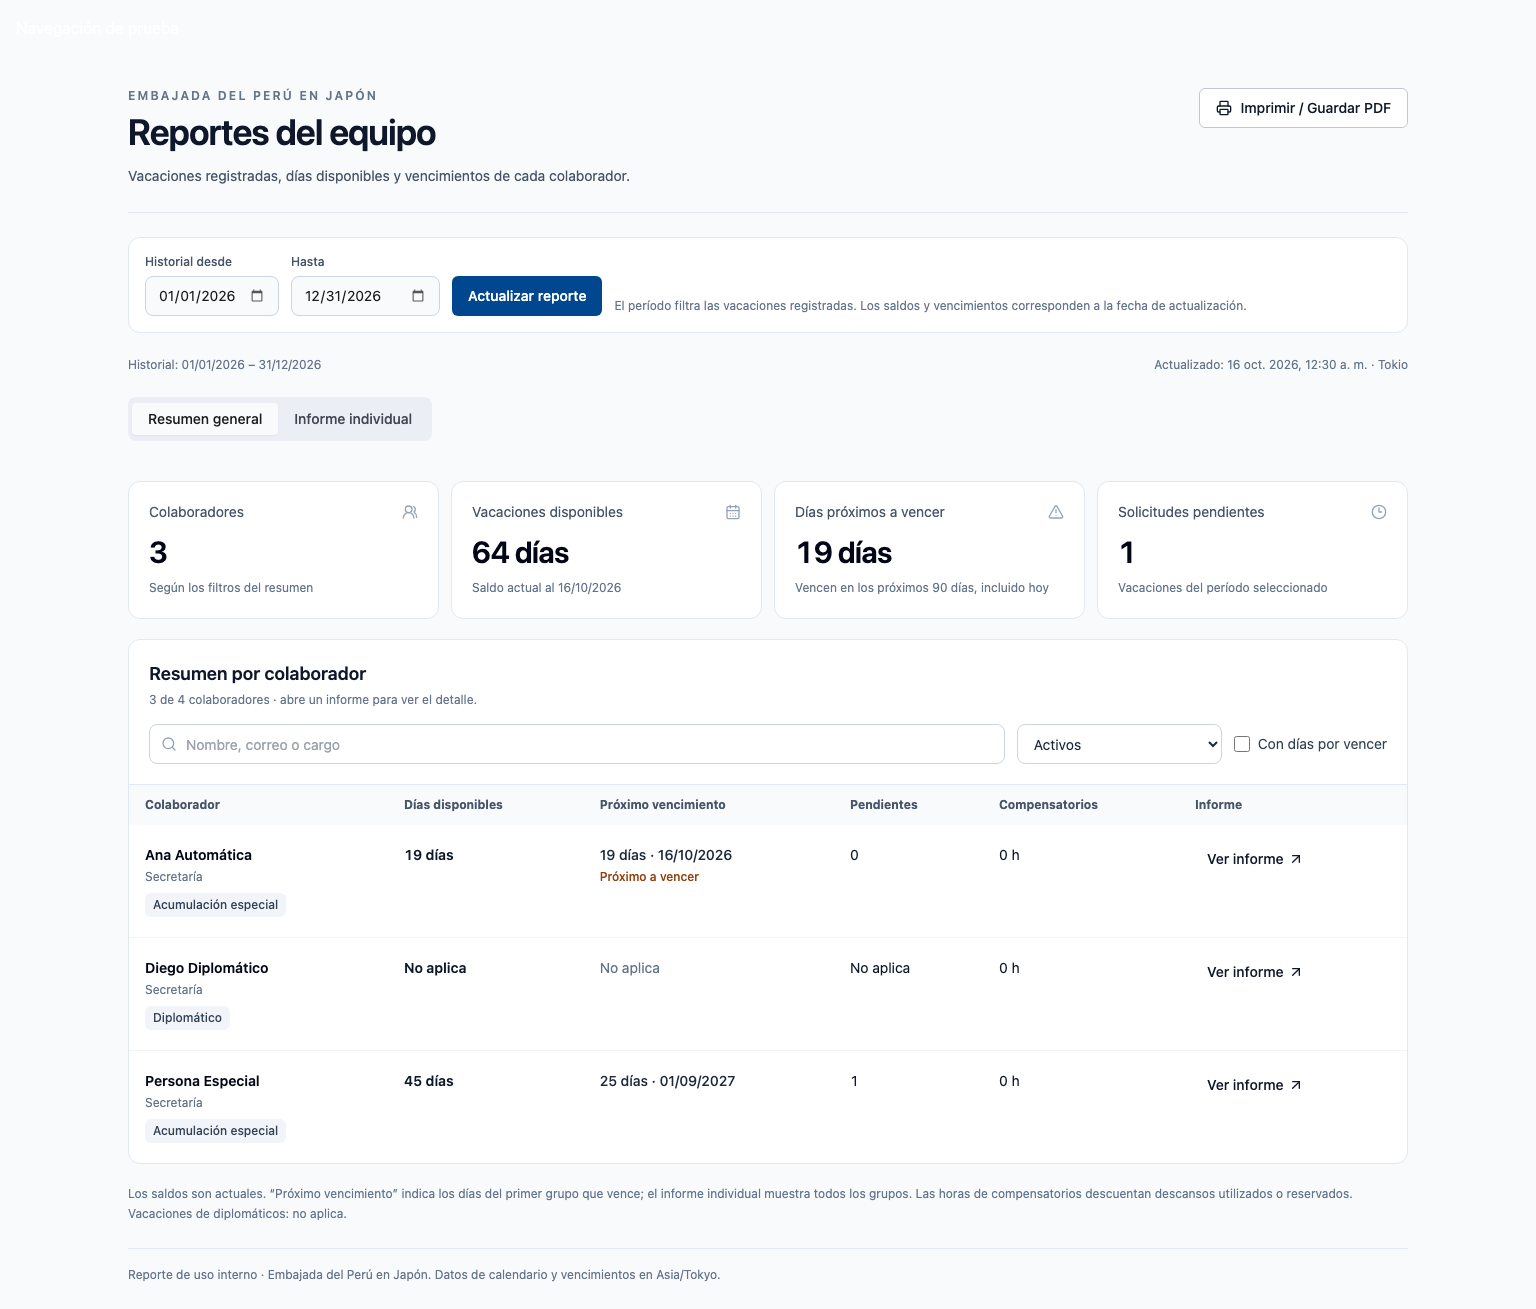
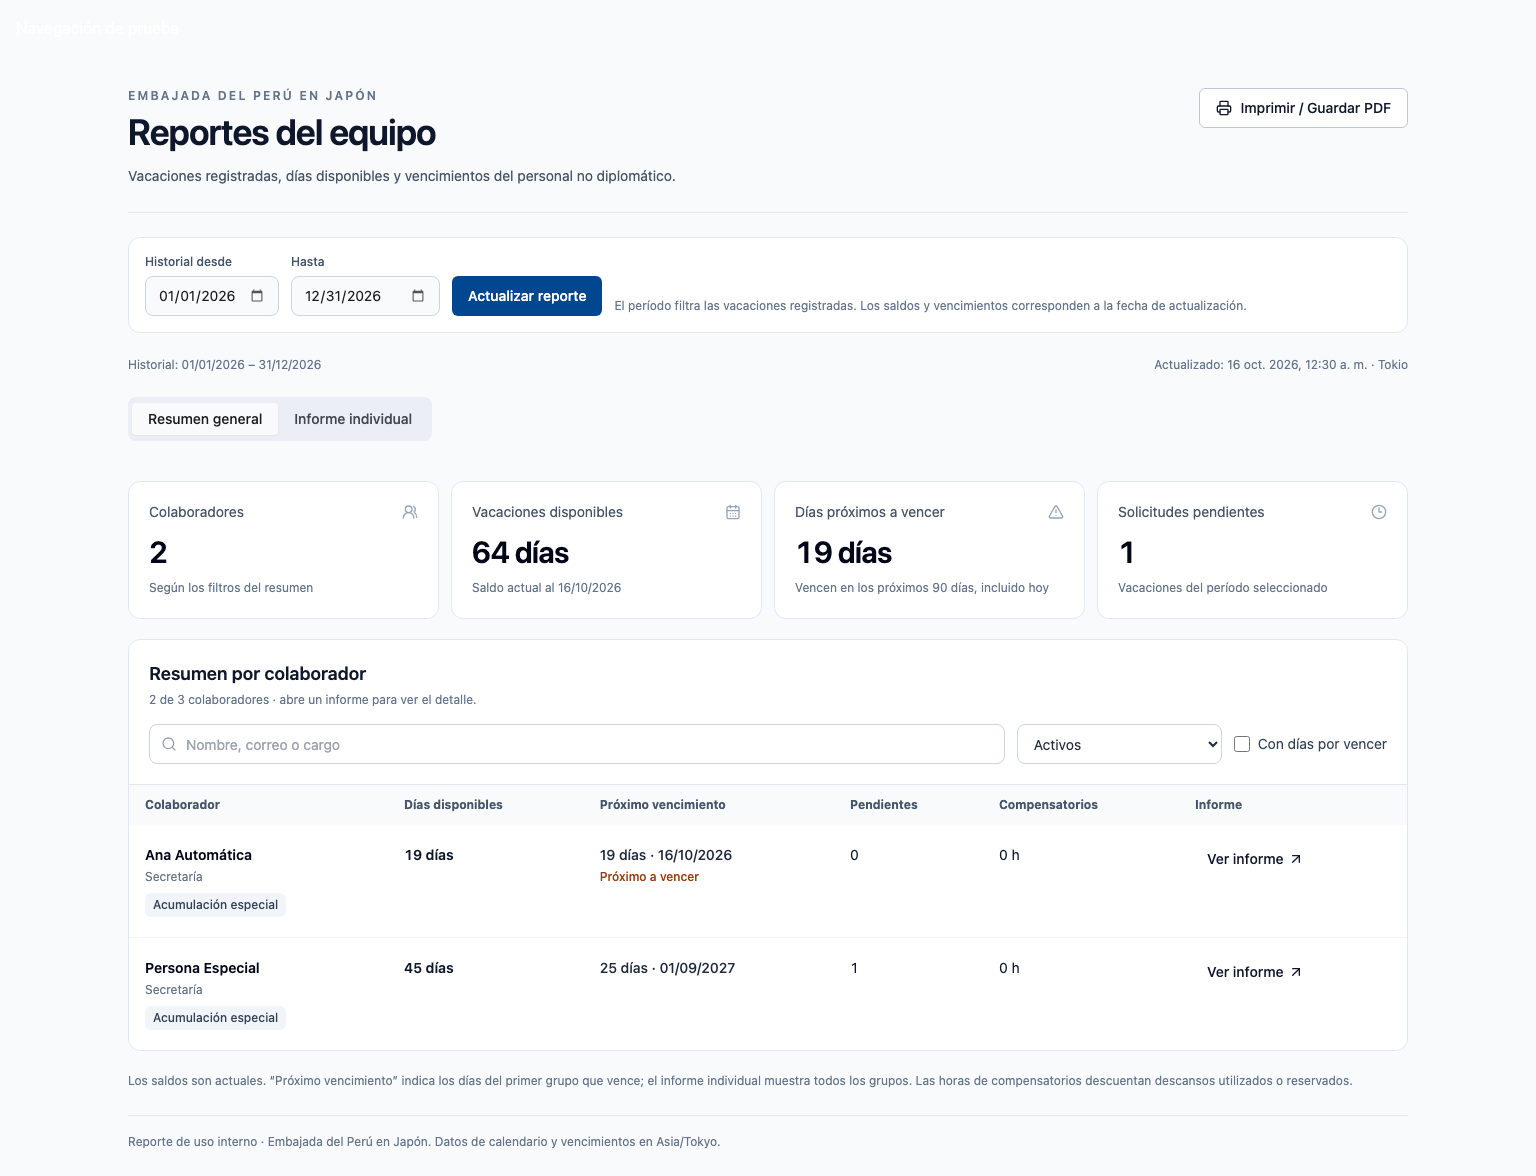
fix: restrict staff reports to non-diplomatic users

diff --git a/e2e/ui/staff-report.spec.ts b/e2e/ui/staff-report.spec.ts
@@ -98,14 +98,26 @@ test("actualiza el período y muestra errores de lectura sin presentar cero regi
   await expect(page.getByRole("alert")).toContainText("datos anteriores siguen visibles");
   await expect(page.getByRole("button", { name: "Imprimir / Guardar PDF" })).toBeDisabled();
 });
-test("muestra No aplica en diplomáticos y cambia de persona sin conservar el saldo anterior", async ({
+test("excluye diplomáticos del resumen, los filtros, el selector y la impresión", async ({
   page,
 }) => {
+  await page.setViewportSize({ width: 1536, height: 1000 });
+  await page.getByRole("combobox", { name: "Estado del colaborador" }).selectOption("all");
+  await expect(page.locator(".report-desktop tbody tr")).toHaveCount(3);
+  await expect(page.getByText("Diego Diplomático", { exact: true })).toHaveCount(0);
+  await page.emulateMedia({ media: "print" });
+  await expect(page.locator(".report-desktop tbody tr:visible")).toHaveCount(3);
+  await expect(page.getByText("Diego Diplomático", { exact: true })).toHaveCount(0);
+  await page.emulateMedia({ media: "screen" });
   await page.getByRole("tab", { name: "Informe individual" }).click();
+  await expect(
+    page
+      .getByRole("combobox", { name: "Seleccionar colaborador" })
+      .locator('option[value="diplomat"]'),
+  ).toHaveCount(0);
   await page.getByRole("combobox", { name: "Seleccionar colaborador" }).selectOption("special");
   await expect(page.getByRole("heading", { name: "Persona Especial", exact: true })).toBeVisible();
-  await page.getByRole("combobox", { name: "Seleccionar colaborador" }).selectOption("diplomat");
-  await expect(page.getByRole("heading", { name: "Diego Diplomático", exact: true })).toBeVisible();
+  await page.getByRole("combobox", { name: "Seleccionar colaborador" }).selectOption("auto");
+  await expect(page.getByRole("heading", { name: "Ana Automática", exact: true })).toBeVisible();
   await expect(page.getByText("45 días", { exact: true })).toHaveCount(0);
-  await expect(page.getByText("No aplica", { exact: true }).first()).toBeVisible();
 });

diff --git a/test/unit/lib/staff-report.test.ts b/test/unit/lib/staff-report.test.ts
@@ -138,21 +138,21 @@ describe("informes de colaboradores", () => {
     expect(() => validateReportPeriod({ from: "2026-02-30", to: "2026-12-31" })).toThrow();
     expect(() => validateReportPeriod({ from: "2027-01-01", to: "2026-12-31" })).toThrow();
   });
-  it("incluye diplomáticos e inactivos sin atribuir vacaciones a los diplomáticos", () => {
+  it("excluye diplomáticos activos e inactivos y conserva al personal no diplomático", () => {
     const result = buildStaffReport({
-      users: [{ ...user, is_diplomatic: true, is_active: false }],
+      users: [
+        user,
+        { ...user, id: "inactive", is_active: false },
+        { ...user, id: "diplomat", is_diplomatic: true },
+        { ...user, id: "former-diplomat", is_diplomatic: true, is_active: false },
+      ],
       grants: [grant(25, "2027-09-01")],
       vacations: [],
       compensatory: [],
       period,
     });
-    expect(result.employees[0]).toMatchObject({
-      diplomatic: true,
-      active: false,
-      balance: 0,
-      expirations: [],
-      nextGrantDate: null,
-    });
+    expect(result.employees.map((row) => row.id).sort()).toEqual(["inactive", "u"]);
+    expect(result.employees.find((row) => row.id === "inactive")?.active).toBe(false);
   });
   it("descuenta descansos reservados, excluye cancelaciones y no oculta saldos negativos", () => {
     const base = {

diff --git a/test/unit/actions/staff-report.test.ts b/test/unit/actions/staff-report.test.ts
@@ -113,6 +113,7 @@ describe("lectura administrativa de informes", () => {
     expect(employee.compensatoryHours).toBe(1001);
     for (const q of queries) {
       expect(q.order).toHaveBeenCalledWith("id");
+      if (q.table === "users") expect(q.eq).toHaveBeenCalledWith("is_diplomatic", false);
     }
     for (const table of ["users", "vacation_grants", "vacations", "compensatorys"]) {
       expect(queries.filter((q) => q.table === table).flatMap((q) => q.range.mock.calls)).toEqual([
@@ -145,6 +146,20 @@ describe("lectura administrativa de informes", () => {
         id,
       );
     expect(mocks.history).toHaveBeenCalledWith({ userId: id });
+  });
+  it("rechaza informes individuales de diplomáticos antes de obtener su historial", async () => {
+    setup();
+    const original = mocks.from.getMockImplementation()!;
+    mocks.from.mockImplementation((table: string) => {
+      const q = original(table);
+      if (table === "users")
+        q.range.mockResolvedValue({ data: [{ ...person, is_diplomatic: true }], error: null });
+      return q;
+    });
+    await expect(getIndividualStaffReport({ userId: id, period })).rejects.toThrow(
+      "No se encontró el colaborador",
+    );
+    expect(mocks.history).not.toHaveBeenCalled();
   });
   it("no entrega un informe parcial si falla el historial de consumos", async () => {
     setup();

diff --git a/app/(dashboard)/(routes)/report/_components/staff-report-view.tsx b/app/(dashboard)/(routes)/report/_components/staff-report-view.tsx
@@ -481,7 +481,7 @@ export function StaffReportView({ initialReport }: { initialReport: StaffReport 
             Reportes del equipo
           </h1>
           <p className="mt-3 max-w-2xl text-sm leading-6 text-slate-600">
-            Vacaciones registradas, días disponibles y vencimientos de cada colaborador.
+            Vacaciones registradas, días disponibles y vencimientos del personal no diplomático.
           </p>
         </div>
         <Button
@@ -757,7 +757,7 @@ export function StaffReportView({ initialReport }: { initialReport: StaffReport 
           <p className="text-xs leading-5 text-slate-500">
             Los saldos son actuales. “Próximo vencimiento” indica los días del primer grupo que
             vence; el informe individual muestra todos los grupos. Las horas de compensatorios
-            descuentan descansos utilizados o reservados. Vacaciones de diplomáticos: no aplica.
+            descuentan descansos utilizados o reservados.
           </p>
         </TabsContent>
         <TabsContent value="individual" className="space-y-5">

diff --git a/actions/get-staff-report.ts b/actions/get-staff-report.ts
@@ -24,7 +24,8 @@ async function loadReport(period: ReportPeriod, userId?: string) {
         .from("users")
         .select(
           "id,name,email,position,is_active,is_diplomatic,hire_date,grant_mode,manual_next_grant_date",
-        );
+        )
+        .eq("is_diplomatic", false);
       if (userId) query = query.eq("id", userId);
       const { data, error } = await query.order("id").range(offset, offset + 999);
       if (error || !data) throw new Error("No se pudieron cargar los colaboradores del reporte.");

diff --git a/lib/reporting/staff-report.ts b/lib/reporting/staff-report.ts
@@ -143,6 +143,7 @@ export function buildStaffReport(input: {
     today = vacationToday(now);
   const period = validateReportPeriod(input.period);
   const employees = input.users
+    .filter((user) => user.is_diplomatic === false)
     .map((user): StaffReportEmployee => {
       const grants = input.grants.filter((grant) => grant.user_id === user.id);
       const latest = [...grants].sort(

diff --git a/docs/plan/staff-reports.md b/docs/plan/staff-reports.md
@@ -4,7 +4,7 @@ Implementación de las seis fases solicitadas para `/report`.
 
 1. Datos: lecturas completas por lotes de 1.000 filas con orden único por ID; cualquier lote fallido aborta el informe. Ambas acciones requieren sesión de administrador activo y usan el cliente del usuario con RLS.
 2. Diseño: resumen general e informe individual en pestañas, controles con etiquetas, tarjetas móviles y tabla de escritorio. El directorio y los reportes comparten la misma regla de saldo vigente: asignación iniciada, remanente positivo y vencimiento inclusivo, con fecha de Tokio.
-3. Resumen: colaboradores activos por defecto, búsqueda por nombre/correo/cargo, consulta de inactivos y filtro de vencimientos en los próximos 90 días. Incluye diplomáticos con vacaciones “No aplica”. Los indicadores corresponden a las personas visibles.
+3. Resumen: colaboradores activos por defecto, búsqueda por nombre/correo/cargo, consulta de inactivos y filtro de vencimientos en los próximos 90 días. Incluye únicamente personal no diplomático, también al consultar inactivos. Esta restricción se aplica en el servidor, el resumen y el acceso al informe individual. Los indicadores corresponden a las personas visibles.
 4. Informe individual: registros disfrutados, en curso, programados, pendientes y cancelados; saldo actual agrupado por fecha de vencimiento; todas las asignaciones, sus notas y consumos de aprobación. Las excepciones dependen de autorización documentada, no de superar 40 días.
 5. Impresión: imprime la vista seleccionada, sus filtros y fechas, sin navegación ni controles. El historial muestra 25 registros por página en pantalla e incluye todas las filas al imprimir. Las tablas repiten encabezados. El botón abre el diálogo del navegador, desde donde se guarda como PDF.
 6. Validación y publicación: pruebas unitarias, navegador con datos ficticios, fechas de Tokio desde navegador en Los Ángeles, impresión y comprobación de producción de solo lectura.
@@ -21,7 +21,7 @@ Implementación de las seis fases solicitadas para `/report`.
 
 ## Comprobaciones realizadas
 
-- 399 pruebas unitarias aprobadas; una prueba de integración existente omitida.
+- 400 pruebas unitarias aprobadas; una prueba de integración existente omitida.
 - 9 pruebas de interfaz en `pnpm test:report:ui`, sin conexión a Supabase ni cambios de datos.
 - 2 pruebas de acceso anónimo aprobadas.
 - TypeScript y compilación de producción aprobados.
